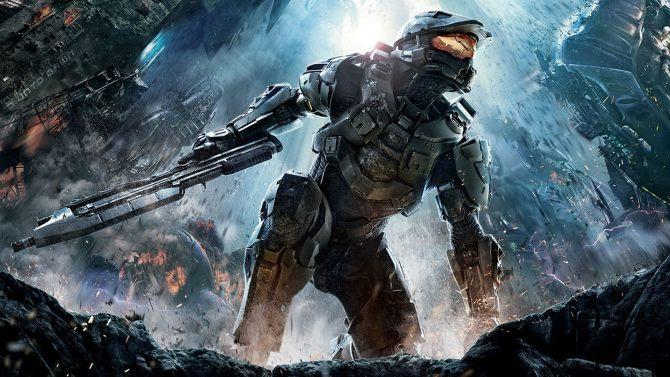
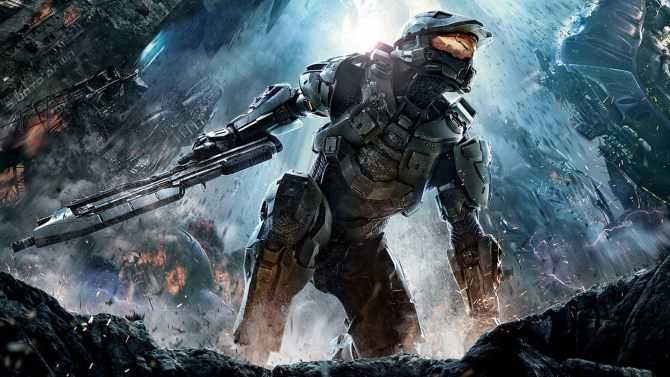
Image Compression Quality

diff --git a/src/main/Main.java b/src/main/Main.java
@@ -4,7 +4,6 @@ package main;
 // required modules
 import java.awt.image.*;
 import javax.imageio.*;
-import java.util.*;
 import java.io.*;
 
 
@@ -13,9 +12,13 @@ public class Main {
     
     public static void main(String[] args) throws Exception {
         BufferedImage img = ImageIO.read(new File("0.jpg"));
-        ImageIO.write(img, "jpg", new File("1.jpg"));
-        for(Iterator<ImageWriter> i = ImageIO.getImageWritersByFormatName("bmp"); i.hasNext();)
-            System.out.println(i.next());
+        // ImageIO.write(img, "jpg", new File("1.jpg"));
+        ImageWriter wrt = ImageIO.getImageWritersByFormatName("jpeg").next();
+        ImageWriteParam iwp = wrt.getDefaultWriteParam();
+        iwp.setCompressionMode(ImageWriteParam.MODE_EXPLICIT);
+        iwp.setCompressionQuality(0.5f);
+        wrt.setOutput(ImageIO.createImageOutputStream(new File("1.jpg")));
+        wrt.write(null, new IIOImage(img, null, null), iwp);
         System.out.println(img);
     }
 }
